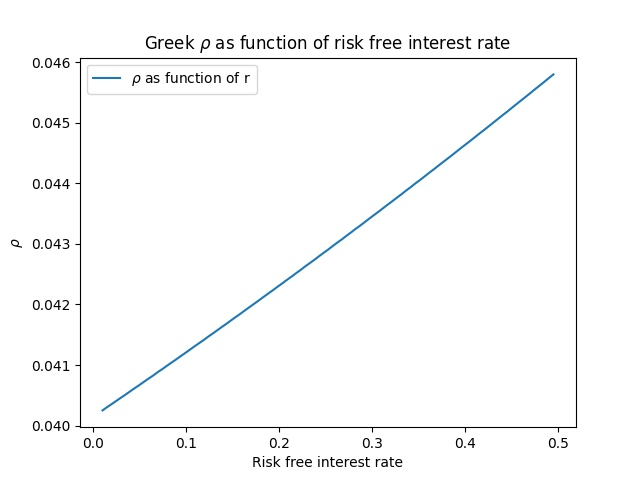
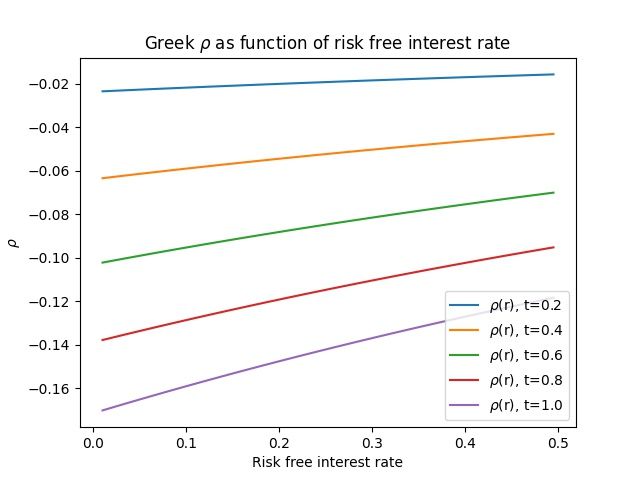
Added multiple timesteps for the greeks

diff --git a/Project5_BS/CodeBase/Black_scholes.cpp b/Project5_BS/CodeBase/Black_scholes.cpp
@@ -123,31 +123,54 @@ void Black_scholes::Greeks(vec sigma,vec r, string rfilename,string sfilename){
   ofile.open(sfilename);
   int N1 = sigma.n_elem;
   int N2 = r.n_elem;
-  for(int s =0;s<N1;s++){
-    Initialize(T,X,N,filename,r_fast,D,sigma(s),E);
-    double t = 0.1;
-    m_utilde(m_N-1)=(m_S(m_N-1)*exp(-t*m_D)-m_E*exp(-m_r*t))*exp(m_a*m_x(m_N-1)+m_b*t);
-    calc_utilde(t);
-    vec u = Tridiag();
-    vec V = transform_u_V(u,t);
-    ofile << setw(20) << setprecision(8) << V(N1-2) << " ";
-    ofile << setw(20) << setprecision(8) << sigma(s) << endl;
+
+  cout << N1 << endl;
+
+  for (int j = 0; j < N1; j++){
+    ofile << setw(20) << setprecision(8) << sigma(j) << " ";
+  }
+  ofile << setw(20) << setprecision(8) << " " << endl;
+
+  double t = 0;
+  for (int i = 1; i < 6; i++){
+    t = i/5. * T;
+    ofile << setw(20) << setprecision(8) << t << " ";
+    for(int s =0;s<N1;s++){
+      Initialize(t,X,N,filename,r_fast,D,sigma(s),E);
+
+      m_utilde(m_N-1)=(m_S(m_N-1)*exp(-t*m_D)-m_E*exp(-m_r*t))*exp(m_a*m_x(m_N-1)+m_b*t);
+      calc_utilde(t);
+      vec u = Tridiag();
+      vec V = transform_u_V(u,t);
+
+      ofile << setw(20) << setprecision(8) << V(N1-2) << " ";
+    }
+    ofile << setw(20) << setprecision(8) <<  " " << endl;
   }
   ofile.close();
 
   ofile.open(rfilename);
-
-  for(int k=0;k<N2;k++){
-    Initialize(T,X,N,filename,r(k),D,simga_fast,E);
-    double t = 0.1;
-    m_utilde(m_N-1)=(m_S(m_N-1)*exp(-t*m_D)-m_E*exp(-m_r*t))*exp(m_a*m_x(m_N-1)+m_b*t);
-    calc_utilde(t);
-    vec u = Tridiag();
-    vec V = transform_u_V(u,t);
-    ofile << setw(20) << setprecision(8) << V(N1-2) << " ";
-    ofile << setw(20) << setprecision(8) << r(k) << endl;
+  for (int j = 0; j < N1; j++){
+    ofile << setw(20) << setprecision(8) << r(j)<< " ";
   }
-    ofile.close();
+  ofile << setw(20) << setprecision(8) << " " << endl;
+  double t2 = 0;
+  for (int i = 1; i < 6; i++){
+    t2 = i/5. * T;
+    ofile << setw(20) << setprecision(8) << t2 << " ";
+    for(int k=0;k<N2;k++){
+      Initialize(t2,X,N,filename,r(k),D,simga_fast,E);
+      m_utilde(m_N-1)=(m_S(m_N-1)*exp(-t*m_D)-m_E*exp(-m_r*t))*exp(m_a*m_x(m_N-1)+m_b*t);
+      calc_utilde(t);
+      vec u = Tridiag();
+      vec V = transform_u_V(u,t);
+
+      ofile << setw(20) << setprecision(8) << V(N1-2) << " ";
+    }
+    ofile << setw(20) << setprecision(8) <<  " " << endl;
+  }
+  ofile.close();
+
 }
 void Black_scholes::init_print(){
   ofstream ofile;
@@ -160,6 +183,7 @@ void Black_scholes::init_print(){
   print_vals(V_0,0);
   ofile.close();
 }
+
 void Black_scholes::print_vals(vec u,double t){
   ofstream ofile;
   ofile.open(m_filename, fstream::app);

diff --git a/Project5_BS/CodeBase/visualize.py b/Project5_BS/CodeBase/visualize.py
@@ -112,17 +112,27 @@ sdata = open("greeks_s.txt","r")
 
 VS = []
 sig = []
+tsigma = []
+
+for val in sdata.readline().split():
+    sig.append(float(val))
 
 for line in sdata:
-    x1 = line.split()[0]
-    x2 = line.split()[1]
-    VS.append(float(x1))
-    sig.append(float(x2))
+    tsigma.append(float(line.split()[0]))
+    rest_list = []
+
+    for element in line.split()[1:]:
+        rest_list.append(float(element))
+
+    VS.append(rest_list)
 
 VS = np.asarray(VS)
 sig = np.asarray(sig)
+tsigma = np.asarray(tsigma)
+
 
 def vega(VS,sig):
+    print(np.shape(sig))
     firstdiv = np.diff(VS)/np.diff(sig)
     return firstdiv
 
@@ -131,15 +141,25 @@ def vega(VS,sig):
 rdata = open("greeks_r.txt","r")
 VR = []
 rho = []
+trho = []
+
+for val in rdata.readline().split():
+    rho.append(float(val))
 
 for line in rdata:
-    x1 = line.split()[0]
-    x2 = line.split()[1]
-    VR.append(float(x1))
-    rho.append(float(x2))
+    trho.append(float(line.split()[0]))
+    rest_list = []
+
+    for element in line.split()[1:]:
+        rest_list.append(float(element))
+
+    VR.append(rest_list)
 
 VR = np.asarray(VR)
 rho = np.asarray(rho)
+trho = np.asarray(trho)
+
+
 
 
 def rhos(VR,rho):
@@ -170,7 +190,8 @@ plt.show()
 
 
 # Rho and Vega
-plt.plot(sig[:-1],vega(VS,sig),label=r"vega as function of $\sigma$")
+for i in range(len(tsigma)):
+    plt.plot(sig[:-1],vega(VS[i],sig),label=r"$\nu$($\sigma$), t={:.1f}".format(tsigma[i]))
 
 plt.legend()
 plt.xlabel("Volatility")
@@ -179,7 +200,8 @@ plt.title(r"Greek vega as function of volatility")
 plt.savefig("Results/vega.jpeg")
 plt.show()
 
-plt.plot(rho[:-1],rhos(VR,rho),label=r"$\rho$ as function of r")
+for i in range(len(trho)):
+    plt.plot(rho[:-1],rhos(VR[i],rho),label=r"$\rho$(r), t={:.1f}".format(trho[i]))
 
 plt.legend()
 plt.xlabel("Risk free interest rate")
@@ -207,23 +229,3 @@ plt.savefig("Results/tau.jpeg")
 plt.show()
 
 #Derivation of anaytical expression
-
-
-
-def delta_ana():
-    return 0
-def theta_ana():
-    return 0
-def rho_ana():
-    return 0
-def vega_ana():
-    return 0
-
-for i in range(1,len(t)):
-    plt.plot(S,egrad(Vana)(S,T-t[i],sigma,r), label=r"$\Delta$ for t = {:.1f}".format(T - t[i]))
-plt.title(r"Analytical $\Delta = \partial V / \partial S$")
-plt.xlabel("Stock price S")
-plt.ylabel(r"$\Delta_{analytical}$")
-plt.legend()
-plt.savefig("Results/delta_ana.jpeg")
-plt.show()

diff --git a/Project5_BS/CodeBase/main_b.cpp b/Project5_BS/CodeBase/main_b.cpp
@@ -25,7 +25,7 @@ int main(int argc, char* argv[])
    string filename="u.txt";double r = 0.04; double D=0.12; double sigma=0.4; double E=50;
    SC.Initialize(T,X,N,filename,r,D,sigma,E);
    //SC.D1d_explicit();
-   SC.Crank_Nic();
+   SC.Crank_Nic(print_per);
    vec sigma_vec =linspace(0.1,1.,1e2); vec r_vec = linspace(0.01,0.5,1e2);
    string rfilename = "greeks_r.txt";string sfilename = "greeks_s.txt";
    SC.Greeks(sigma_vec,r_vec, rfilename, sfilename);
